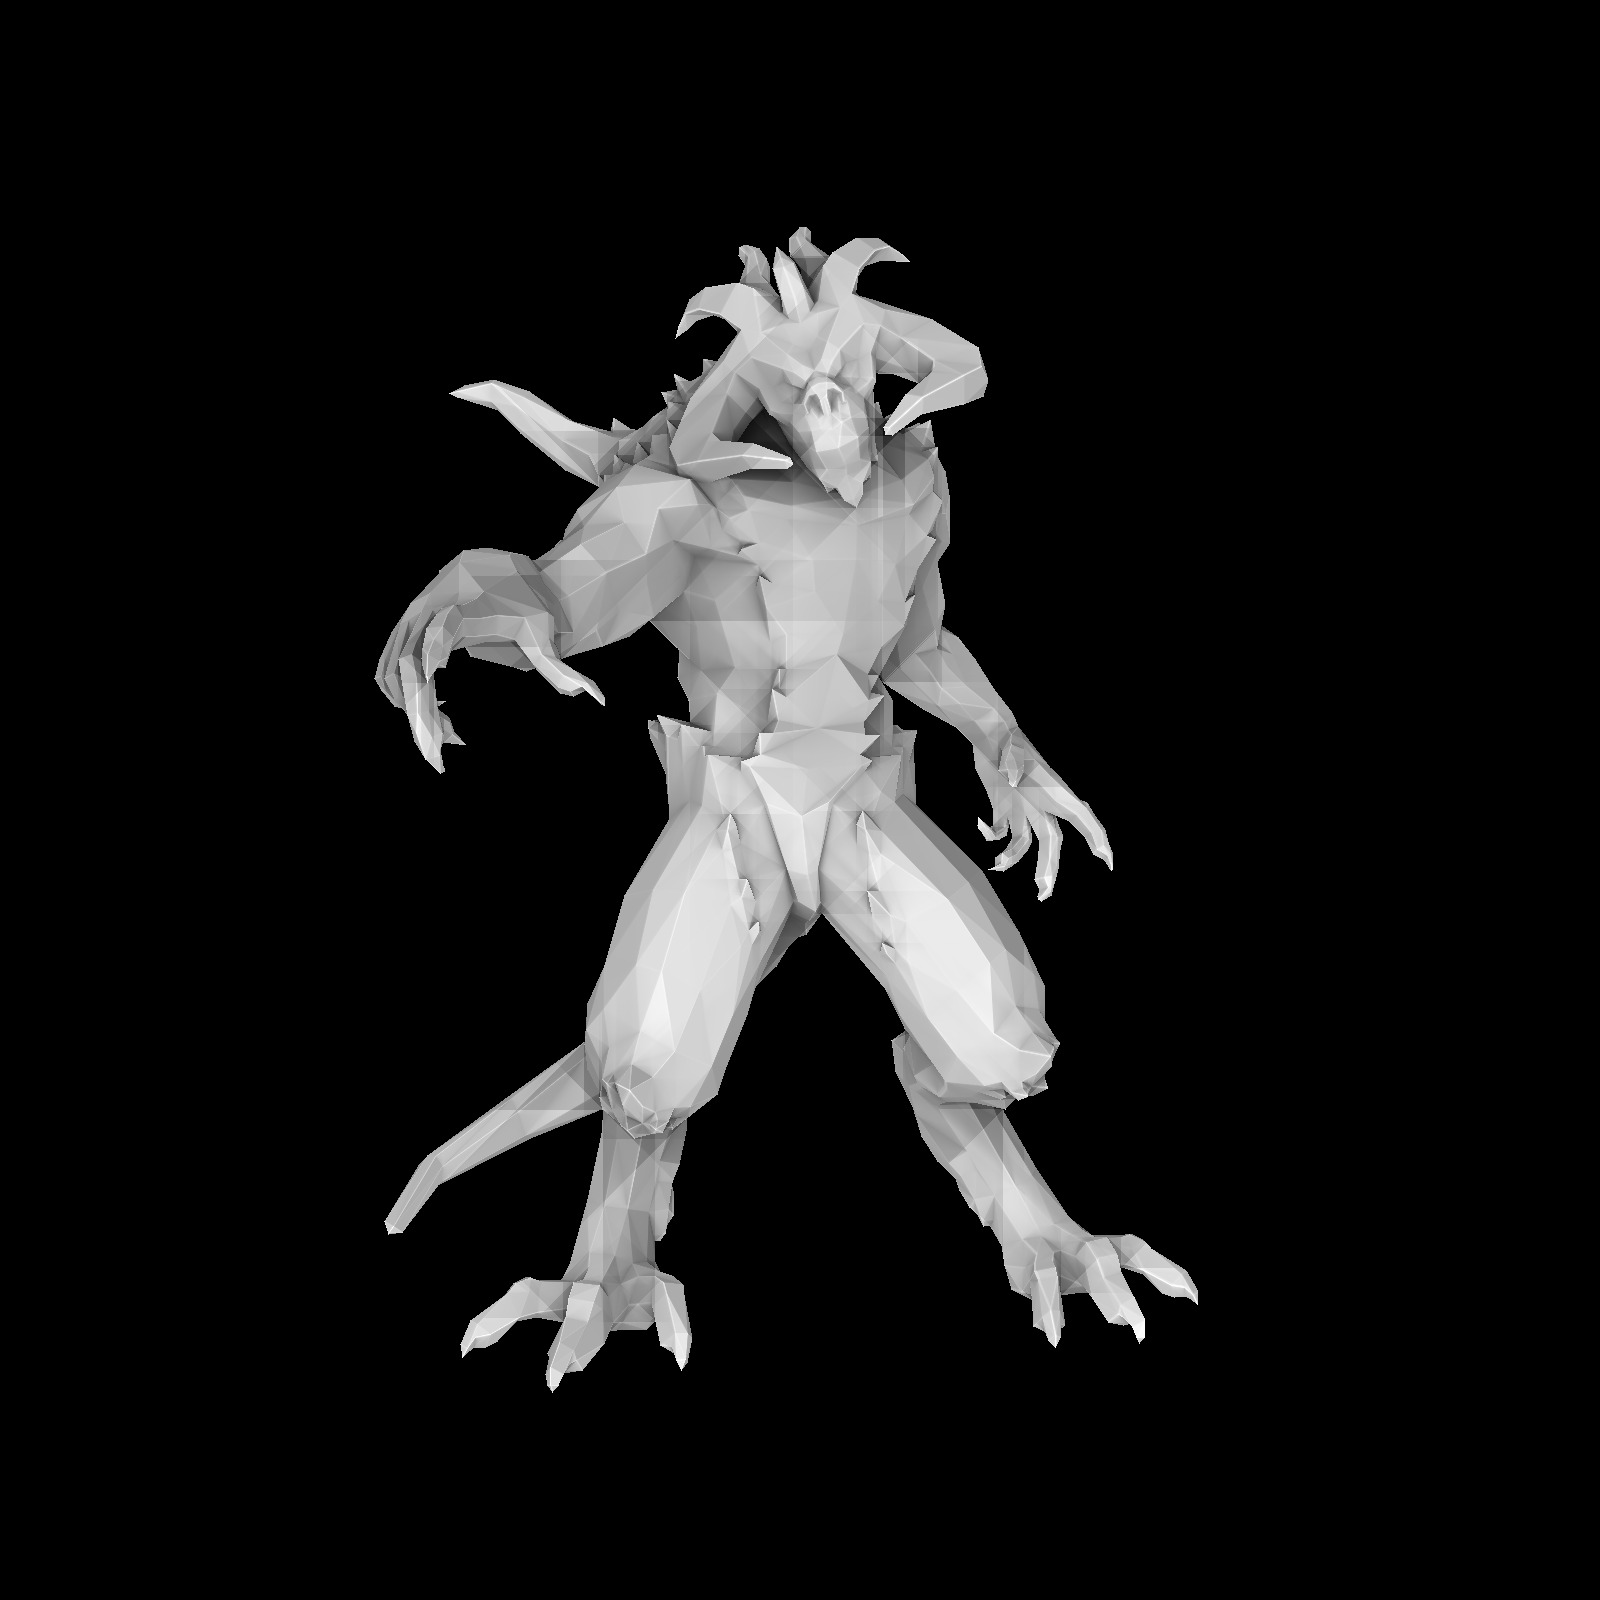
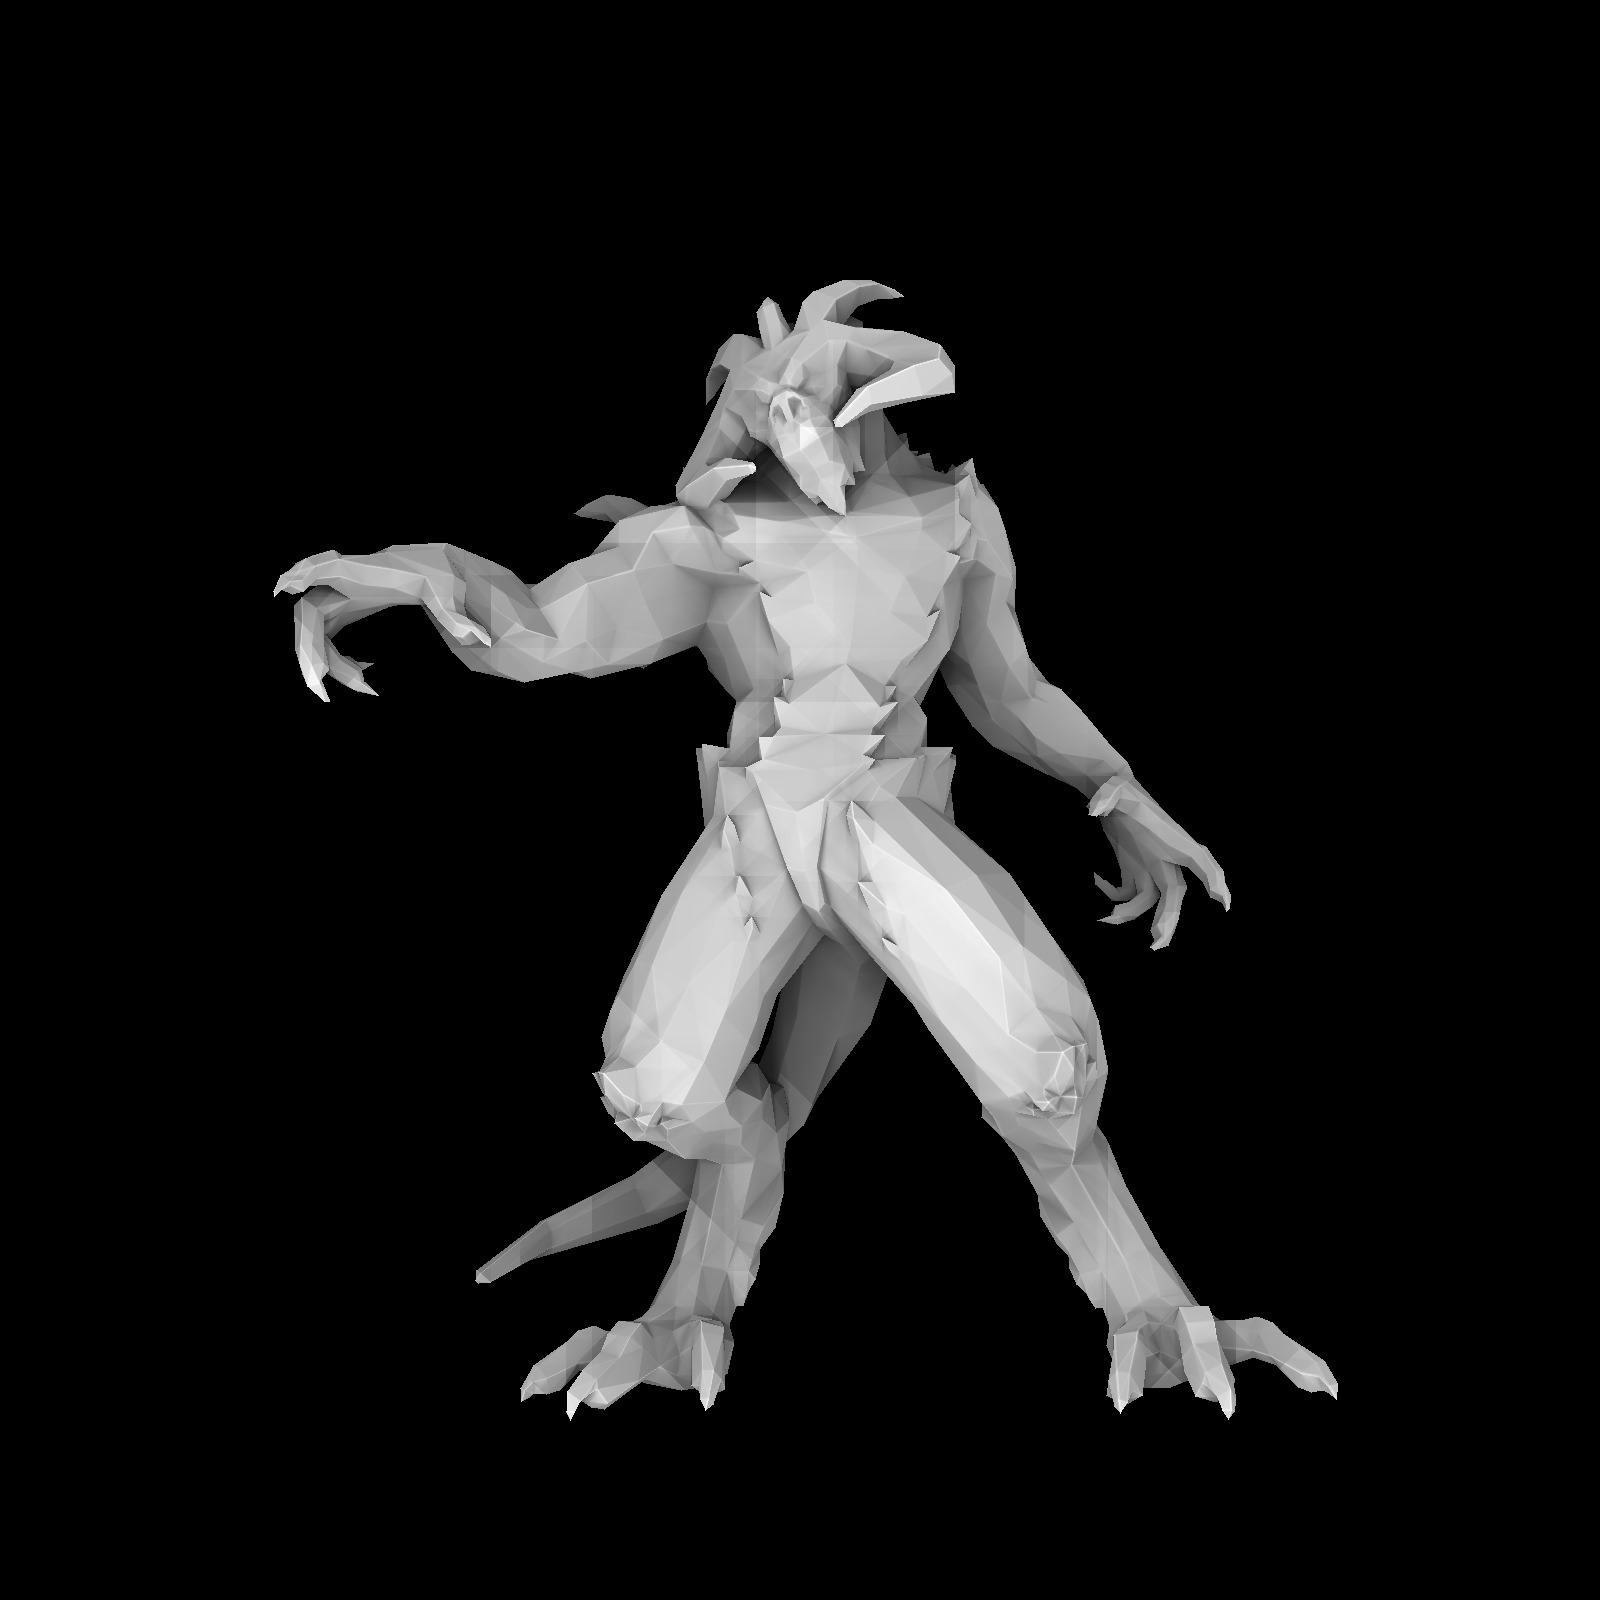
less performance, more accurate SSAO, delete unused code

Changed region(s): [[0.1562, 0.125, 0.8438, 0.9062]]

diff --git a/ssloys_lecture/L8_screen_space_ambient_occlusion/main.cpp b/ssloys_lecture/L8_screen_space_ambient_occlusion/main.cpp
@@ -26,7 +26,7 @@ const TGAColor red = {255, 0, 0};
 const TGAColor green = {0, 255, 0};
 const TGAColor blue = {0, 0, 255};
 vec3 lightsource_direction = {-1, -1, 0}; // will be normalized, show light source direction
-vec3 camera_coord = {0, 0, 3};            // coordinates of the camera
+vec3 camera_coord = {1.2,-.8,3};            // coordinates of the camera
 vec3 center = {0, 0, 0};                  // camera look at center (default: origin {0,0,0})
 vec3 up = {0, 1, 0};                      // up direction of camera (y axis of camera)
 
@@ -193,72 +193,6 @@ struct ZShader : public IShader{
    }
 };
 
-struct Shader : public IShader
-{
-   mat<3, 3> texturecoords;
-   mat<3, 3> normalvectors;
-   mat<3, 3> varying_tri;
-   mat<4, 4> Mshadow_transform; // transform view screen vertices to light screen vertices.
-   vec3 normalvector;
-   vec3 colorcoord;
-
-   Shader() {}
-   Shader(mat<4, 4> MShadow_transmat) : Mshadow_transform(MShadow_transmat) {}
-
-   virtual vec3 vertex(int iface, int nthvert)
-   {
-      texturecoords[nthvert] = model->uv(iface, nthvert);
-      normalvectors[nthvert] = model->normal(iface, nthvert);
-      vec4 gl_vertex = embed<4, 3>(model->vert(iface, nthvert) * model_scale);
-      gl_vertex = Viewport * Projection * Modelview * gl_vertex;
-      varying_tri[nthvert] = ROUND_VECTOR(proj<3, 4>(gl_vertex / gl_vertex[3]));
-      return varying_tri[nthvert];
-   }
-
-   virtual bool fragment(vec3 barycentricvec, TGAColor &color)
-   {
-      vec4 current_pixel_coord_lightview = Mshadow_transform * embed<4, 3>(varying_tri.transpose() * barycentricvec);
-      current_pixel_coord_lightview = current_pixel_coord_lightview / current_pixel_coord_lightview[3];
-      int idx = int(current_pixel_coord_lightview[0]) + int(current_pixel_coord_lightview[1]) * imagew;
-      double shadowstrength = shadowstrength_scale + (1 - shadowstrength_scale) * (zbuffer[idx] < current_pixel_coord_lightview[2] + 45);
-
-      normalvector = normalvectors.transpose() * barycentricvec;
-      normalvector = normalvector * contrast;
-      colorcoord = texturecoords.transpose() * barycentricvec;
-      TGAColor specularcolor = specularmap.get(colorcoord.x, colorcoord.y);
-
-      mat<3, 3> A = mat<3, 3>{texturecoords[1] - texturecoords[0], texturecoords[2] - texturecoords[0], normalvector}.transpose();
-      mat<3, 3> AI = A.invert();
-      vec3 i = AI * vec<3>{texturecoords[1] - texturecoords[0]};
-      vec3 j = AI * vec<3>{texturecoords[2] - texturecoords[0]};
-      mat<3, 3> B = mat<3, 3>{i, j, normalvector}.transpose();
-      vec3 n = (B * model->normal(colorcoord)).normalized();
-      vec3 l = proj<3, 4>(Projection * Modelview * embed<4, 3>(lightsource_direction)).normalized();
-      vec3 r = ((n * -l * 2.) * n + l).normalized();
-      double diffstrength = max<double>(0, (n * -l) * lintensity);
-      double specularstrength = pow(max<double>(0, r.z), specularcolor[0]);
-
-      if (diffstrength < 0)
-         diffstrength = 0;
-      else if (diffstrength > 1)
-         diffstrength = 1;
-      if (specularstrength < 0)
-         specularstrength = 0;
-      else if (specularstrength > 1)
-         specularstrength = 1;
-
-      // find texture.
-      color = diffusemap.get(ROUNDNUM(colorcoord.x * diffusemap.width()), ROUNDNUM(colorcoord.y * diffusemap.height()));
-      TGAColor glow = glowmap.get(ROUNDNUM(colorcoord.x * glowmap.width()), ROUNDNUM(colorcoord.y * glowmap.height()));
-
-      for (int i = 0; i < 4; i++)
-      {
-         color[i] = max<double>(0, min<double>(255, glow[i] * glow_scale + ambientcolor + color[i] * shadowstrength * (diffstrength * diffstrength_scale + specularstrength * specularstrength_scale)));
-      }
-      return 0;
-   }
-};
-
 void triangle(vec3 *vertices, IShader &shader, double *zbuffer, TGAImage *image)
 {
    double imgw = (double)image->width();
@@ -307,7 +241,7 @@ double max_elevation_angle(double* zbuffer, vec2 p, vec2 dir){
    double max_angle = 0;
    for(int t=0.;t<max_distant;t+=1.){
       vec2 cur = p + dir*t;
-      if(zbuffer[int(cur.x) + int(cur.y) * imagew] < 1e-5 || cur.x >= imagew || cur.x < 0 || cur.y >= imageh || cur.y < 0){
+      if(cur.x >= imagew || cur.x < 0 || cur.y >= imageh || cur.y < 0){
          return max_angle;
       } // black pixel appear or out of image then stop
       double elevation = zbuffer[int(cur.x) + int(cur.y)*imagew] - zbuffer[int(p.x) + int(p.y) * imagew];
@@ -333,9 +267,6 @@ int main(int argc, char **argv)
    fill(zbuffer, zbuffer + imageh * imagew, -std::numeric_limits<double>::max());
 
    model = new Model(filename);
-   diffusemap = model->diffuse();
-   specularmap = model->specular();
-   glowmap = model->glow();
 
    TGAImage *image = new TGAImage(imagew, imageh, TGAImage::RGB);
    ZShader zshader;
@@ -363,7 +294,7 @@ int main(int argc, char **argv)
             total += M_PI/2 - max_elevation_angle(zbuffer,vec2{x,y},vec2{cos(i),sin(i)});
          }
          total /= (M_PI/2)*8; // get the average angle of all direction
-         image->set(x,y,TGAColor{(unsigned char)(total*255.),(unsigned char)(total*255.),(unsigned char)(total*255.)});
+         image->set(x,y,TGAColor{u_char(total*255),u_char(total*255),u_char(total*255)});
       }
    }
 
